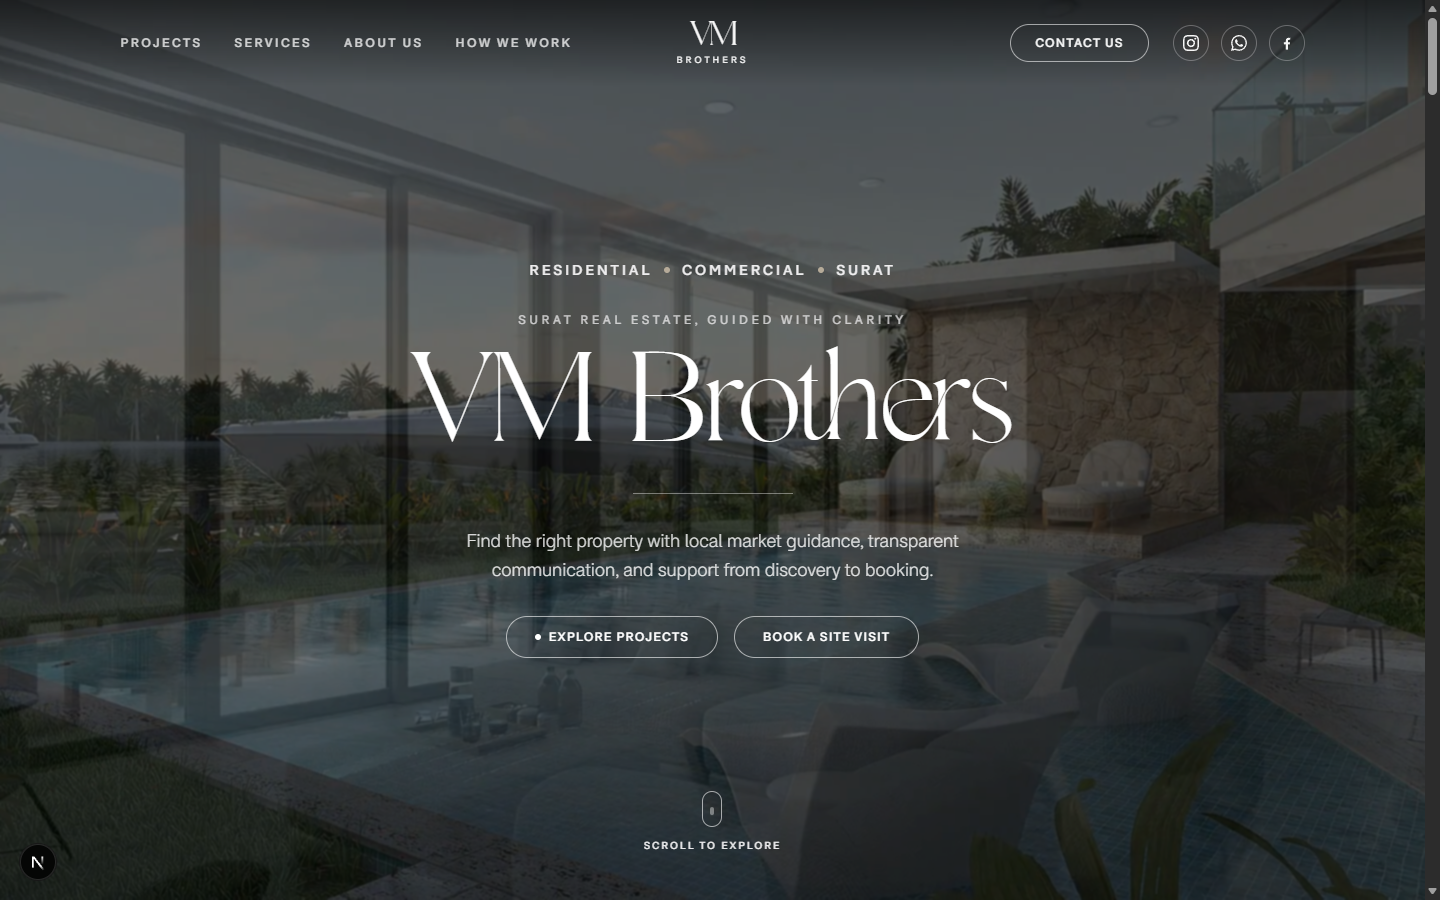
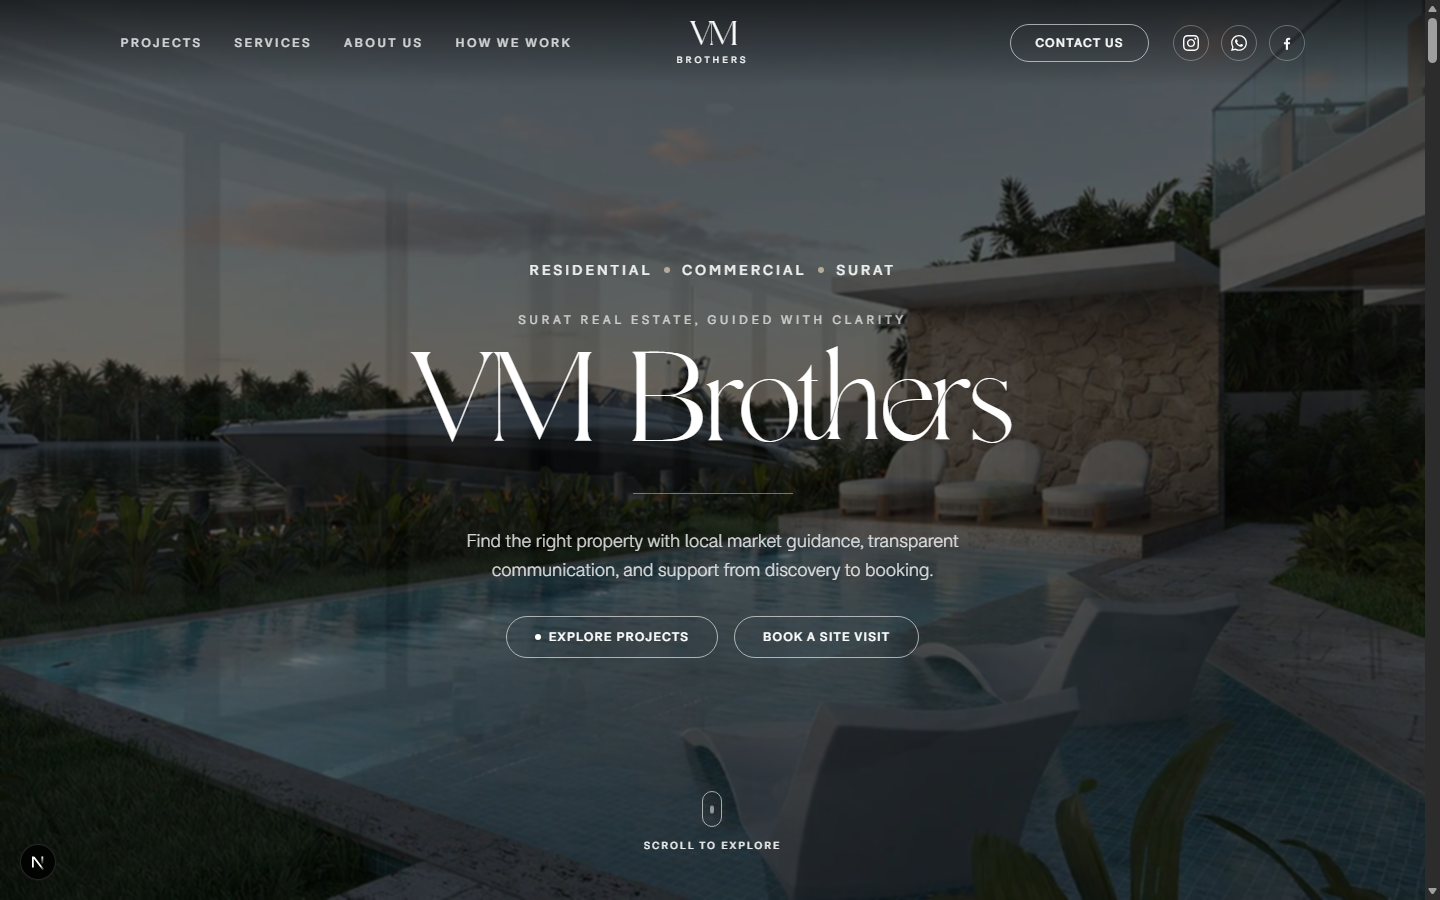
improve loading animation and minor bug fixes

diff --git a/app/about-us/page.tsx b/app/about-us/page.tsx
@@ -7,10 +7,10 @@ import ScrollTextReveal from "@/components/animations/ScrollTextReveal";
 import { siteContent } from "@/data/siteContent";
 
 export default function AboutUsPage() {
-  return <><Header theme="solid" /><main className="min-h-screen pt-24">
+  return <><Header theme="solid" /><main className="min-h-screen">
     <PageHero eyebrow="Surat Real Estate" title="About VM Brothers" description="Property guidance built on clarity, trust, and a practical understanding of Surat's evolving real-estate market." image={siteContent.assets.representative.pageHeroes.about} />
     <section className="mx-auto max-w-5xl px-6 py-24 text-center md:px-12 md:py-32"><ScrollTextReveal className="font-gallient text-2xl leading-relaxed sm:text-3xl md:text-4xl">VM Brothers helps clients discover, evaluate, and move forward with suitable residential and commercial property opportunities across Surat.</ScrollTextReveal><p className="mx-auto mt-8 max-w-3xl font-light leading-relaxed text-[#313131]/75">The company&apos;s approach brings together property discovery, site visits, current market guidance, booking support, documentation coordination, and applicable post-booking assistance—all with transparent communication at the center.</p></section>
-    <section className="bg-[#1A1A1A] px-6 py-24 text-white md:px-12"><div className="mx-auto grid max-w-6xl gap-12 lg:grid-cols-12 lg:items-center"><div className="flex min-h-[420px] items-center justify-center rounded-2xl border border-white/10 bg-white/5 lg:col-span-5"><BrandMark size="monogram" className="scale-150" /></div><div className="lg:col-span-7"><span className="text-xs uppercase tracking-[0.3em] text-[#B6AB99]">Leadership</span><h2 className="mt-5 font-gallient text-4xl md:text-6xl">{siteContent.company.founder.name}</h2><p className="mt-2 text-xs uppercase tracking-[0.25em] text-[#B6AB99]">{siteContent.company.founder.title}</p><p className="mt-7 max-w-2xl font-light leading-relaxed text-white/75">{siteContent.company.founder.bio} His public leadership message emphasizes helping families make clearer property decisions and building lasting relationships with customers and project partners.</p><div className="mt-9"><CreativeButton href="/contact" variant="outline" showIcon>Talk to Our Team</CreativeButton></div></div></div></section>
+    <section className="bg-[#1A1A1A] px-6 py-24 text-white md:px-12"><div className="mx-auto grid max-w-6xl gap-12 lg:grid-cols-12 lg:items-center"><div className="flex min-h-[420px] items-center justify-center rounded-2xl border border-white/10 bg-white/5 lg:col-span-5"><BrandMark size="monogram" className="scale-150" /></div><div className="lg:col-span-7"><span className="text-xs uppercase tracking-[0.3em] text-[#B6AB99]">Leadership</span><h2 className="mt-5 font-gallient text-4xl md:text-6xl">{siteContent.company.founder.name}</h2><p className="mt-2 text-xs uppercase tracking-[0.25em] text-[#B6AB99]">{siteContent.company.founder.title}</p><p className="mt-7 max-w-2xl font-light leading-relaxed text-white/75">{siteContent.company.founder.bio} His public leadership message emphasizes helping families make clearer property decisions and building lasting relationships with customers and project partners.</p><div className="mt-9"><CreativeButton href="/contact#enquiry" variant="outline" showIcon>Talk to Our Team</CreativeButton></div></div></div></section>
     <section className="mx-auto max-w-7xl px-6 py-24 md:px-12 md:py-32"><div className="mb-12 text-center"><span className="text-xs uppercase tracking-[0.3em] text-[#B6AB99]">What Guides Us</span><h2 className="mt-4 font-gallient text-4xl md:text-5xl">Values in Every Conversation</h2></div><div className="grid gap-4 sm:grid-cols-2 lg:grid-cols-3">{siteContent.values.map((value, i) => <div key={value} className="rounded-2xl border border-[#313131]/10 bg-[#EAE6DF]/50 p-7"><span className="text-xs text-[#B6AB99]">0{i+1}</span><h3 className="mt-4 font-gallient text-2xl">{value}</h3></div>)}</div></section>
   </main><Footer /></>;
 }

diff --git a/app/projects/[slug]/page.tsx b/app/projects/[slug]/page.tsx
@@ -1,5 +1,6 @@
 import type { Metadata } from "next";
 import Image from "next/image";
+import Link from "next/link";
 import { notFound } from "next/navigation";
 import Header from "@/components/layout/Header";
 import Footer from "@/components/layout/Footer";
@@ -33,20 +34,17 @@ export default async function ProjectPage({ params }: ProjectPageProps) {
 
   if (!project) notFound();
 
-  const currentIndex = publishedProjects.findIndex((item) => item.slug === slug);
-  const nextProject = publishedProjects[(currentIndex + 1) % publishedProjects.length];
-
   return (
     <>
       <Header />
       <main className="min-h-screen bg-[#F5F5F5]">
-        <section className="relative isolate flex min-h-[78svh] items-end overflow-hidden px-6 pb-16 pt-36 text-white md:px-12 md:pb-24">
+        <section className="relative isolate flex min-h-[100svh] items-end overflow-hidden px-6 pb-16 pt-36 text-white md:px-12 md:pb-24">
           <Image
             src={project.heroImage}
             alt=""
             fill
             priority
-            className="-z-20 object-cover"
+            className="-z-20 object-cover object-bottom"
             sizes="100vw"
           />
           <div className="absolute inset-0 -z-10 bg-gradient-to-t from-black/90 via-black/40 to-black/30" />
@@ -100,7 +98,7 @@ export default async function ProjectPage({ params }: ProjectPageProps) {
               </div>
             </dl>
             <div className="mt-8">
-              <CreativeButton href="/contact" variant="accent" showIcon>
+              <CreativeButton href="/contact#enquiry" variant="accent" showIcon>
                 Enquire or Book a Visit
               </CreativeButton>
             </div>
@@ -108,15 +106,25 @@ export default async function ProjectPage({ params }: ProjectPageProps) {
         </section>
 
         <section className="bg-[#1A1A1A] px-6 py-20 text-white md:px-12">
-          <div className="mx-auto flex max-w-7xl flex-col gap-8 md:flex-row md:items-center md:justify-between">
-            <div>
-              <span className="text-xs uppercase tracking-[0.3em] text-[#B6AB99]">Explore Next</span>
-              <h2 className="mt-3 font-gallient text-3xl text-white md:text-5xl">{nextProject.name}</h2>
-            </div>
-            <CreativeButton href={`/projects/${nextProject.slug}`} variant="outline" showIcon>
-              View Project
-            </CreativeButton>
-          </div>
+          <nav aria-labelledby="explore-projects-heading" className="mx-auto max-w-7xl">
+            <h2 id="explore-projects-heading" className="font-gallient text-3xl md:text-5xl">Explore Our Projects</h2>
+            <ul className="mt-10 divide-y divide-white/20 border-y border-white/20">
+              {publishedProjects.map((item) => (
+                <li key={item.slug}>
+                  <Link
+                    href={`/projects/${item.slug}`}
+                    aria-current={item.slug === slug ? "page" : undefined}
+                    className="flex items-center justify-between gap-6 py-6 transition-colors hover:text-[#B6AB99] aria-[current=page]:text-[#B6AB99]"
+                  >
+                    <span className="min-w-0 font-gallient text-2xl leading-tight md:text-3xl">{item.name}</span>
+                    <span className="shrink-0 text-[10px] uppercase tracking-[0.16em]">
+                      {item.slug === slug ? "Viewing" : "View project"}
+                    </span>
+                  </Link>
+                </li>
+              ))}
+            </ul>
+          </nav>
         </section>
 
         <p className="mx-auto max-w-5xl px-6 py-8 text-center text-xs leading-relaxed text-[#313131]/55 md:px-12">

diff --git a/app/services/page.tsx b/app/services/page.tsx
@@ -5,7 +5,7 @@ import CreativeButton from "@/components/ui/CreativeButton";
 import { siteContent } from "@/data/siteContent";
 
 export default function ServicesPage() {
-  return <><Header theme="solid" /><main className="min-h-screen pt-24"><PageHero eyebrow="Property Support" title="Our Services" description="Practical support for residential and commercial property decisions, from the first conversation through the applicable transaction steps." image={siteContent.assets.representative.pageHeroes.services} />
-    <section className="mx-auto max-w-7xl px-6 py-24 md:px-12 md:py-32"><div className="mx-auto mb-16 max-w-3xl text-center"><h2 className="font-gallient text-4xl md:text-5xl">Local Guidance. Clear Next Steps.</h2><p className="mt-6 font-light leading-relaxed text-[#313131]/70">Whether you are looking for a home, evaluating a commercial opportunity, or arranging a site visit, VM Brothers helps keep the process focused and understandable.</p></div><div className="grid gap-6 md:grid-cols-2">{siteContent.services.map((service, i) => <article key={service.id} className="rounded-2xl border border-[#313131]/10 bg-[#EAE6DF]/55 p-8 md:p-10"><span className="text-xs tracking-[0.2em] text-[#B6AB99]">0{i+1}</span><h3 className="mt-5 font-gallient text-3xl">{service.title}</h3><p className="mt-5 font-light leading-relaxed text-[#313131]/70">{service.description}</p></article>)}</div><div className="mt-14 text-center"><CreativeButton href="/contact" variant="accent" showIcon>Discuss Your Requirements</CreativeButton></div></section>
+  return <><Header theme="solid" /><main className="min-h-screen"><PageHero eyebrow="Property Support" title="Our Services" description="Practical support for residential and commercial property decisions, from the first conversation through the applicable transaction steps." image={siteContent.assets.representative.pageHeroes.services} />
+    <section className="mx-auto max-w-7xl px-6 py-24 md:px-12 md:py-32"><div className="mx-auto mb-16 max-w-3xl text-center"><h2 className="font-gallient text-4xl md:text-5xl">Local Guidance. Clear Next Steps.</h2><p className="mt-6 font-light leading-relaxed text-[#313131]/70">Whether you are looking for a home, evaluating a commercial opportunity, or arranging a site visit, VM Brothers helps keep the process focused and understandable.</p></div><div className="grid gap-6 md:grid-cols-2">{siteContent.services.map((service, i) => <article key={service.id} className="rounded-2xl border border-[#313131]/10 bg-[#EAE6DF]/55 p-8 md:p-10"><span className="text-xs tracking-[0.2em] text-[#B6AB99]">0{i+1}</span><h3 className="mt-5 font-gallient text-3xl">{service.title}</h3><p className="mt-5 font-light leading-relaxed text-[#313131]/70">{service.description}</p></article>)}</div><div className="mt-14 text-center"><CreativeButton href="/contact#enquiry" variant="accent" showIcon>Discuss Your Requirements</CreativeButton></div></section>
   </main><Footer /></>;
 }

diff --git a/components/projects/ProjectCard.tsx b/components/projects/ProjectCard.tsx
@@ -1,6 +1,6 @@
 import React from "react";
 import Image from "next/image";
-import CreativeButton from "../ui/CreativeButton";
+import Link from "next/link";
 import type { VmProject } from "@/data/siteContent";
 
 export default function ProjectCard({ project }: { project: VmProject }) {
@@ -35,19 +35,20 @@ export default function ProjectCard({ project }: { project: VmProject }) {
         </p>
 
         <div className="pt-2 flex items-center justify-between">
-          <CreativeButton
-            href={`/projects/${project.slug}`}
-            variant="outline"
-            showIcon={true}
-            className="!px-6 !py-2.5"
-          >
+          <span className="inline-flex items-center gap-2 rounded-full border border-white/60 px-6 py-2.5 text-xs font-medium uppercase tracking-widest text-white transition-colors duration-300 group-hover:border-[#B6AB99] group-hover:bg-[#B6AB99]">
+            <span className="h-1.5 w-1.5 shrink-0 rounded-full bg-current" aria-hidden="true" />
             View project
-          </CreativeButton>
+          </span>
           {project.imageIsRepresentative && (
             <span className="text-[9px] uppercase tracking-[0.16em] text-white/60">Representative imagery</span>
           )}
         </div>
       </div>
+      <Link
+        href={`/projects/${project.slug}`}
+        aria-label={`View ${project.name}`}
+        className="absolute inset-0 z-10 rounded-2xl focus-visible:outline-offset-[-4px]"
+      />
     </article>
   );
 }

diff --git a/components/ui/HomeIntro.tsx b/components/ui/HomeIntro.tsx
@@ -79,8 +79,8 @@ export default function HomeIntro({ children }: { children: ReactNode }) {
       title.querySelectorAll("[data-intro-word]").forEach((word) => {
         Array.from(word.children).forEach((letter, index) => {
           letterAnimations.push(letter.animate(
-            [{ transform: "translate3d(0, 110%, 0)" }, { transform: "translate3d(0, 0, 0)" }],
-            { duration: 500, delay: 200 + index * 40, easing: "cubic-bezier(0.23, 1, 0.32, 1)", fill: "both" },
+            [{ transform: "translate3d(0, 160%, 0)" }, { transform: "translate3d(0, 0, 0)" }],
+            { duration: 500, delay: index * 40, easing: "cubic-bezier(0.23, 1, 0.32, 1)", fill: "both" },
           ));
         });
       });
@@ -148,7 +148,7 @@ export default function HomeIntro({ children }: { children: ReactNode }) {
             {siteContent.company.name.split(" ").map((word, index) => (
               <span key={index}>
                 {index > 0 && <span data-intro-gap="" className="inline-block w-[0.45em]" />}
-                <span data-intro-word="" className="inline-block overflow-hidden pb-[0.2em] align-top">
+                <span data-intro-word="" className="-my-[0.3em] inline-block overflow-hidden py-[0.3em] align-top">
                   {word.split("").map((char, charIndex) => <span key={charIndex} className="intro-char inline-block">{char}</span>)}
                 </span>
               </span>

diff --git a/components/animations/StackingCards.tsx b/components/animations/StackingCards.tsx
@@ -112,9 +112,9 @@ function StackingCard({
               <p className={`text-xs uppercase tracking-[0.18em] ${dark ? "text-white/60" : "text-[#313131]/60"}`}>{project.location}</p>
               <p className={`mt-4 text-sm font-light leading-relaxed md:text-base ${dark ? "text-white/75" : "text-[#313131]/70"}`}>{project.summary}</p>
             </div>
-            <Link href={`/projects/${project.slug}`} className={`mt-5 w-fit border-b pb-1 text-xs uppercase tracking-[0.18em] ${dark ? "border-white/35 text-white" : "border-[#313131]/35 text-[#313131]"}`}>
+            <span className={`mt-5 w-fit border-b pb-1 text-xs uppercase tracking-[0.18em] ${dark ? "border-white/35 text-white" : "border-[#313131]/35 text-[#313131]"}`}>
               View project
-            </Link>
+            </span>
           </div>
 
           <div className="relative min-h-[180px] overflow-hidden rounded-xl lg:min-h-[230px]">
@@ -126,6 +126,11 @@ function StackingCard({
             )}
           </div>
         </div>
+        <Link
+          href={`/projects/${project.slug}`}
+          aria-label={`View ${project.name}`}
+          className="absolute inset-0 z-10 rounded-2xl focus-visible:outline-offset-[-4px]"
+        />
       </motion.article>
     </div>
   );

diff --git a/app/page.tsx b/app/page.tsx
@@ -28,7 +28,7 @@ export default function HomePage() {
           <h1 className="font-gallient text-[clamp(3.2rem,12vw,7rem)] leading-[0.9] text-white">VM Brothers</h1>
           <div className="h-px w-40 bg-white/40" />
           <p className="max-w-xl text-sm font-light leading-relaxed text-white/85 sm:text-lg">Find the right property with local market guidance, transparent communication, and support from discovery to booking.</p>
-          <div className="flex flex-wrap justify-center gap-4"><CreativeButton href="/projects" variant="outline" showIcon>Explore Projects</CreativeButton><CreativeButton href="/contact" variant="outline">Book a Site Visit</CreativeButton></div>
+          <div className="flex flex-wrap justify-center gap-4"><CreativeButton href="/projects" variant="outline" showIcon>Explore Projects</CreativeButton><CreativeButton href="/contact#enquiry" variant="outline">Book a Site Visit</CreativeButton></div>
         </div><div data-intro-scroll=""><ScrollMouseIcon targetId="intro-section" label="Scroll to explore" /></div>
       </section>
 

diff --git a/components/ui/PageHero.tsx b/components/ui/PageHero.tsx
@@ -10,9 +10,9 @@ interface PageHeroProps {
 
 export default function PageHero({ eyebrow, title, description, image }: PageHeroProps) {
   return (
-    <section className="relative isolate flex w-full flex-col items-center justify-center overflow-hidden bg-[#1A1A1A] px-6 py-28 text-center text-white md:px-12 md:py-36">
+    <section className="relative isolate flex min-h-[100svh] w-full flex-col items-center justify-center overflow-hidden bg-[#1A1A1A] px-6 pb-28 pt-52 text-center text-white md:px-12 md:pb-36 md:pt-60">
       <div className="absolute inset-0 -z-10 bg-black/50">
-        <Image src={image} alt="" fill priority className="object-cover opacity-25" sizes="100vw" />
+        <Image src={image} alt="" fill priority className="object-cover object-bottom opacity-25" sizes="100vw" />
       </div>
       <div className="z-10 mx-auto flex w-full max-w-4xl min-w-0 flex-col items-center gap-6">
         <span className="text-xs font-medium uppercase tracking-[0.3em] text-[#B6AB99]">{eyebrow}</span>

diff --git a/app/contact/page.tsx b/app/contact/page.tsx
@@ -53,7 +53,7 @@ export default function ContactPage() {
   return (
     <>
       <Header theme="solid" />
-      <main className="min-h-screen pt-24">
+      <main className="min-h-screen">
         <PageHero
           eyebrow="Let’s Talk Property"
           title="Contact VM Brothers"
@@ -89,7 +89,7 @@ export default function ContactPage() {
             </div>
           </aside>
 
-          <div className="min-w-0 rounded-2xl bg-[#EAE6DF]/70 p-6 sm:p-9 lg:col-span-8 lg:p-12">
+          <div id="enquiry" className="min-w-0 scroll-mt-24 rounded-2xl bg-[#EAE6DF]/70 p-6 sm:p-9 lg:col-span-8 lg:p-12">
             <h2 className="font-gallient text-3xl md:text-4xl">Property Enquiry</h2>
             <p className="mt-3 text-sm font-light text-[#313131]/65">Fields marked with * are required.</p>
             <form className="mt-9 grid gap-6 sm:grid-cols-2" onSubmit={handleSubmit}>

diff --git a/components/layout/Header.tsx b/components/layout/Header.tsx
@@ -84,7 +84,7 @@ export default function Header({
 
           {/* Right: Contact Button & Social (Desktop) */}
           <div className="hidden lg:flex items-center gap-6">
-            <CreativeButton href="/contact" variant="outline" className="!px-6 !py-2.5">
+            <CreativeButton href="/contact#enquiry" variant="outline" className="!px-6 !py-2.5">
               Contact Us
             </CreativeButton>
             <SocialIcons color="light" />
@@ -146,7 +146,7 @@ export default function Header({
 
         <div className="flex flex-col gap-6 border-t border-white/10 pt-8">
           <CreativeButton
-            href="/contact"
+            href="/contact#enquiry"
             variant="outline"
             className="w-full text-center"
             onClick={() => setIsMobileMenuOpen(false)}

diff --git a/app/how-we-work/page.tsx b/app/how-we-work/page.tsx
@@ -15,7 +15,7 @@ export default function HowWeWorkPage() {
   return (
     <>
       <Header theme="solid" />
-      <main className="min-h-screen pt-24">
+      <main className="min-h-screen">
         <PageHero
           eyebrow="A Clear Process"
           title="How We Work"
@@ -35,7 +35,7 @@ export default function HowWeWorkPage() {
             ))}
           </div>
           <div className="mt-14 text-center">
-            <CreativeButton href="/contact" variant="accent" showIcon>Book a Site Visit</CreativeButton>
+            <CreativeButton href="/contact#enquiry" variant="accent" showIcon>Book a Site Visit</CreativeButton>
           </div>
         </section>
       </main>

diff --git a/components/providers/SmoothScrollProvider.tsx b/components/providers/SmoothScrollProvider.tsx
@@ -11,6 +11,7 @@ export default function SmoothScrollProvider({ children }: { children: React.Rea
   const pathname = usePathname();
 
   useLayoutEffect(() => {
+    if (window.location.hash) return;
     lenisRef.current?.scrollTo(0, { immediate: true });
     window.scrollTo(0, 0);
   }, [pathname]);
